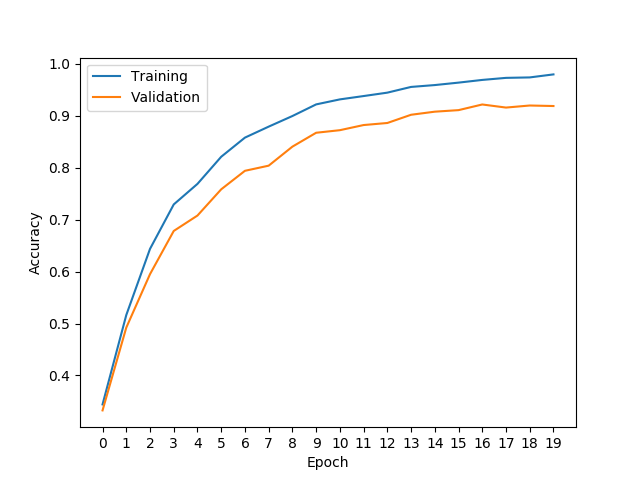
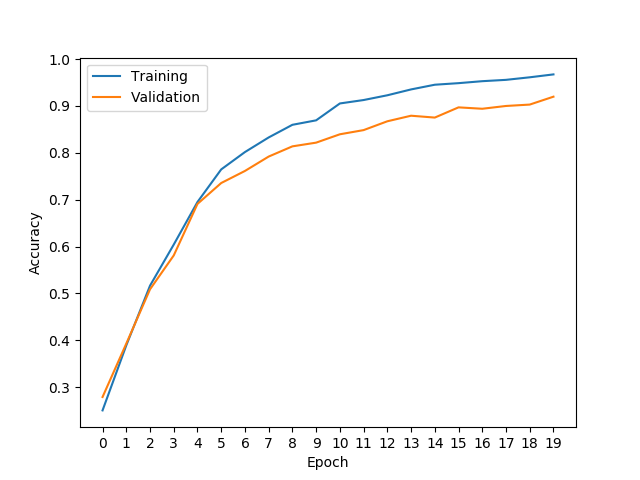
final run

diff --git a/config.py b/config.py
@@ -16,7 +16,7 @@ LEARNING_RATE = 1e-5
 WEIGHT_DECAY = 1e-5
 NUM_EPOCHS = 20
 DROPOUT_PROB = 0.4
-NUM_BATCHES = 60
+NUM_BATCHES = 80
 
 ### DO NOT CHANGE CONSTANTS BELOW THIS LINE
 
